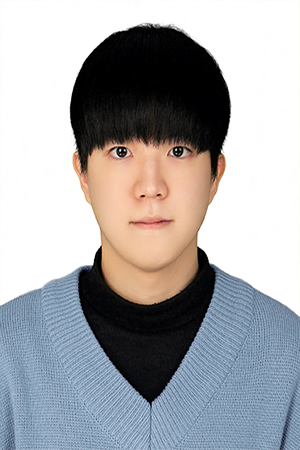
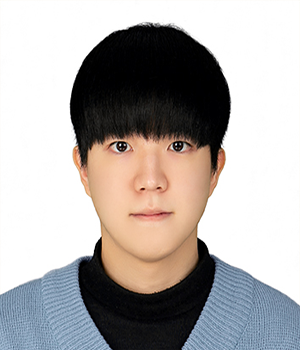
editted /28)

diff --git a/_docs/team/index.md b/_docs/team/index.md
@@ -46,19 +46,6 @@ img {
 .img {
  object-fit: cover;
 }
-/* Clear floats after the columns */
-.row:after {
-  content: "";
-  display: table;
-  clear: both;
-}
-
-/* Responsive layout - makes the four columns stack on top of each other instead of next to each other */
-@media screen and (max-width: 600px) {
-  .column {
-    width: 100%;
-  }
-}
 </style>
 
 
@@ -186,7 +173,7 @@ Interns
 <p></p>
 
 <div class="card"><div class="img">
-    <img src="{{ site.url }}/assets/img/people/yj_nam.jpg" alt="Yoonjoo Nam" width="100%"></div>
+    <img src="{{ site.url }}/assets/img/people/yj_nam.png" alt="Yoonjoo Nam" width="100%"></div>
     <div class="container">
          <h4><b>Yoonjoo Nam</b></h4> 
     <p>Senior,HanBat University

diff --git a/people/yj_nam.md b/people/yj_nam.md
@@ -31,7 +31,7 @@ Yoonjoo Nam
 
 
 <div class="center">
-    <img src="{{ site.url }}/assets/img/people/yj_nam.jpg" width="480px" height="568px" alt="Yoonjoo Nam" />
+    <img src="{{ site.url }}/assets/img/people/yj_nam.png" width="480px" height="568px" alt="Yoonjoo Nam" />
 </div>
 
 
